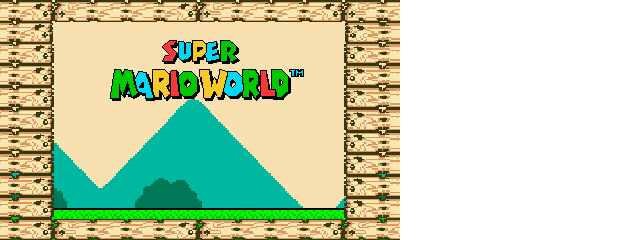
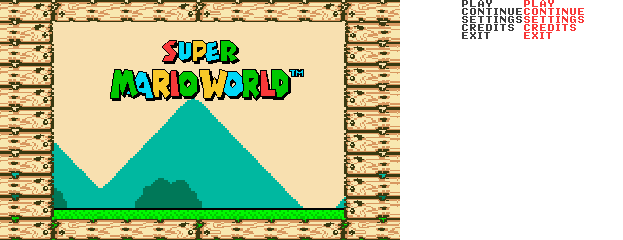
some atlas addings

Changed region(s): [[0.7319, 0.0, 0.9454, 0.175]]

diff --git a/Project/Motor2D/j1Gui.cpp b/Project/Motor2D/j1Gui.cpp
@@ -39,8 +39,8 @@ bool j1Gui::Start()
 	atlas = App->tex->Load(atlas_file_name.GetString());
 
 	CreateImage(0, 0, { 0,0,400,240 });//main screen
-	CreateButton(185, 120, { 400, 0, 30, 7 }, { 300, 0, 30, 7 }, { 300, 0, 30, 7 }, PLAY, (j1Module*)App->scene);//play
-	CreateButton(169, 135, { 400, 8, 60, 7 }, { 300, 8, 60, 7 }, { 300, 8, 60, 7 }, CONTINUE, (j1Module*)App->scene);//continue
+	CreateButton(185, 120, { 400, 0, 30, 7 }, { 462, 0, 30, 7 }, { 524, 0, 30, 7 }, PLAY, (j1Module*)App->scene);//play
+	CreateButton(169, 135, { 400, 8, 60, 7 }, { 462, 8, 60, 7 }, { 524, 8, 60, 7 }, CONTINUE, (j1Module*)App->scene);//continue
 
 	return true;
 }

diff --git a/Project/Motor2D/GuiButton.cpp b/Project/Motor2D/GuiButton.cpp
@@ -22,9 +22,13 @@ void GuiButton::Draw()
 {
 	if (active)
 	{
-		if (mouseover == true)
+		if (mouseover == true && selected == false)
 		{
 			App->render->Blit(App->gui->GetAtlas(), position.x, position.y, &mover);
+		}
+		else if (selected == true)
+		{
+			App->render->Blit(App->gui->GetAtlas(), position.x, position.y, &pressed);
 		}
 		else
 		{
